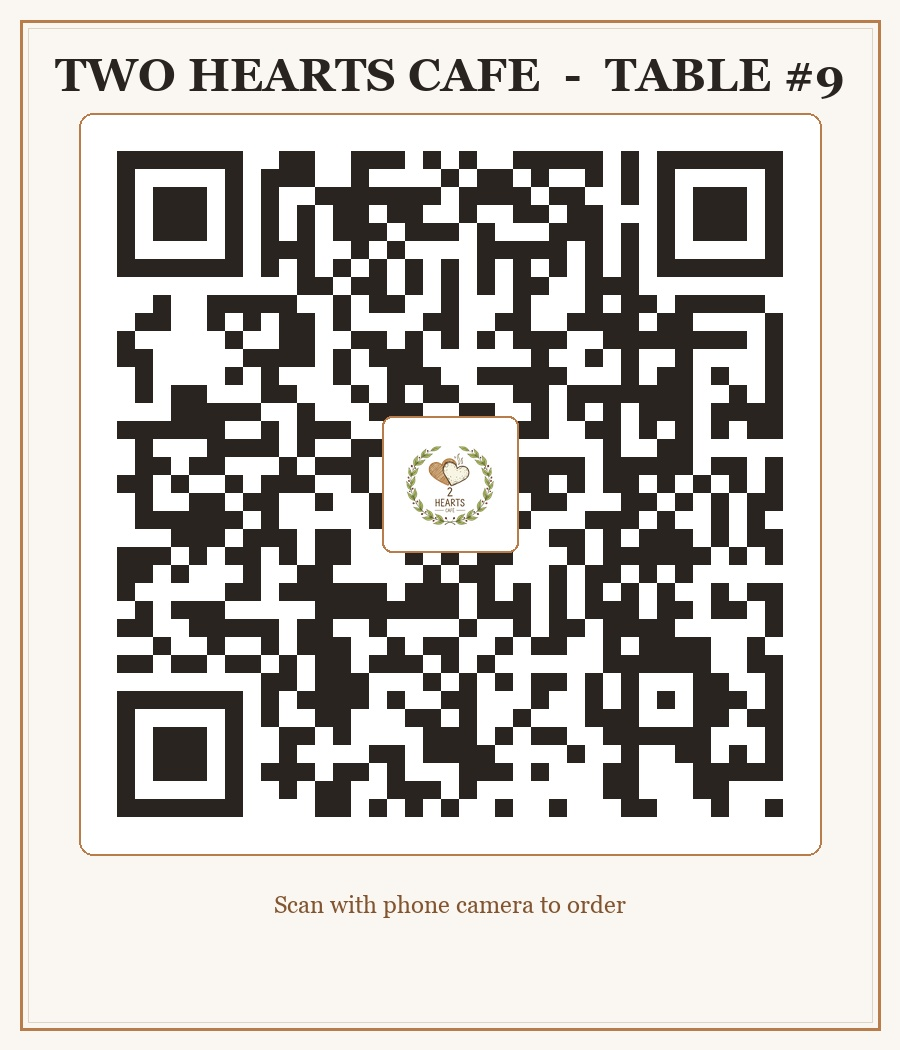
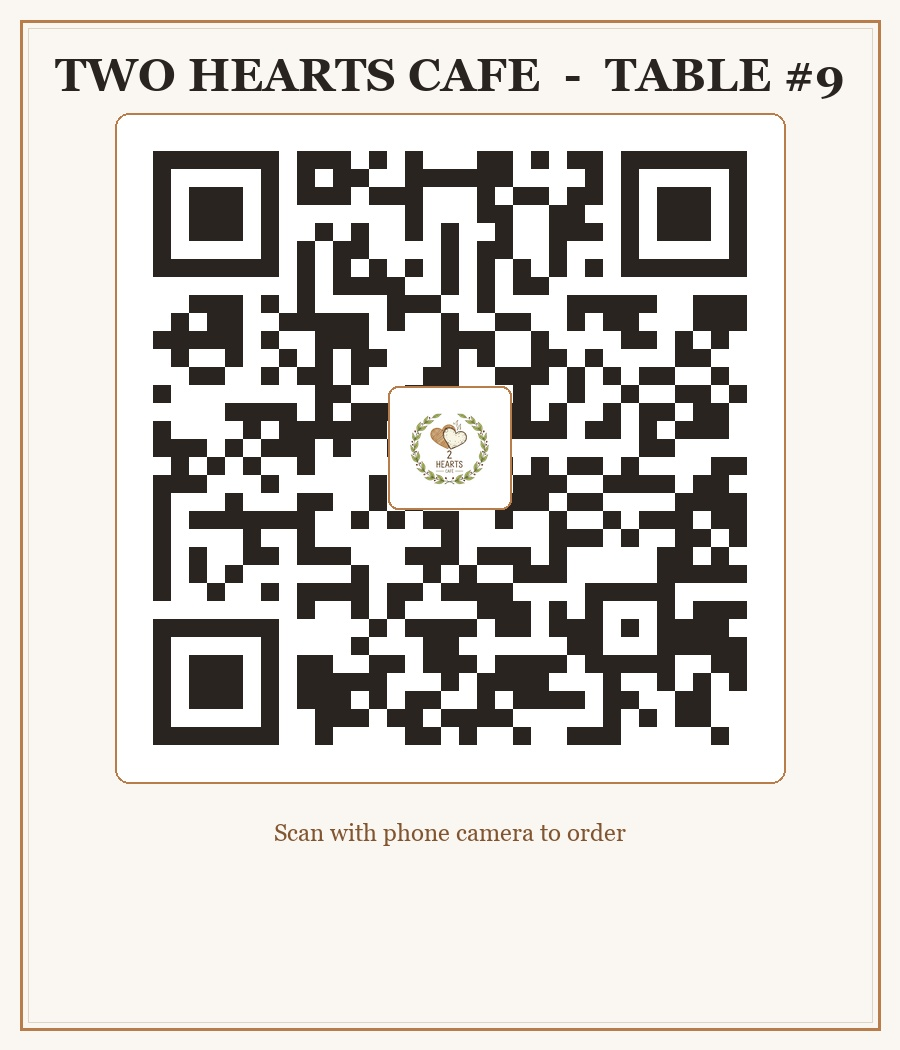
Update domain to twoheartscafe.in: QR codes, SEO canonical tags, sitemap, and robots.txt

Changed region(s): [[0.1244, 0.1219, 0.9022, 0.8229], [0.3111, 0.8533, 0.6844, 0.8838]]

diff --git a/index.html b/index.html
@@ -10,8 +10,27 @@
     <meta name="apple-mobile-web-app-status-bar-style" content="black-translucent" />
     <meta name="apple-mobile-web-app-title" content="Two Hearts" />
     <link rel="apple-touch-icon" href="/images/pwa/icon-192.png" />
-    <meta name="viewport" content="width=device-width, initial-scale=1.0, maximum-scale=1.0, user-scalable=no" />
+    <meta name="viewport" content="width=device-width, initial-scale=1.0, maximum-scale=1.0, user-scalable=no, viewport-fit=cover" />
     <title>Two Hearts Cafe - Menu & Ordering</title>
+    <meta name="description" content="Experience handcrafted coffee, artisanal pizzas, pastas, sizzling snacks, and instant table QR ordering at Two Hearts Cafe." />
+    <link rel="canonical" href="https://twoheartscafe.in/" />
+
+    <!-- Open Graph / Facebook -->
+    <meta property="og:type" content="website" />
+    <meta property="og:url" content="https://twoheartscafe.in/" />
+    <meta property="og:title" content="Two Hearts Cafe - Menu & Ordering" />
+    <meta property="og:description" content="Handcrafted coffee, artisanal pizzas, pastas, sizzling snacks, and instant table QR ordering at Two Hearts Cafe." />
+    <meta property="og:image" content="https://twoheartscafe.in/images/pwa/icon-512.png" />
+    <meta property="og:site_name" content="Two Hearts Cafe" />
+
+    <!-- Twitter -->
+    <meta name="twitter:card" content="summary_large_image" />
+    <meta name="twitter:domain" content="twoheartscafe.in" />
+    <meta name="twitter:url" content="https://twoheartscafe.in/" />
+    <meta name="twitter:title" content="Two Hearts Cafe - Menu & Ordering" />
+    <meta name="twitter:description" content="Handcrafted coffee, artisanal pizzas, pastas, sizzling snacks, and instant table QR ordering at Two Hearts Cafe." />
+    <meta name="twitter:image" content="https://twoheartscafe.in/images/pwa/icon-512.png" />
+
     <link rel="preconnect" href="https://fonts.googleapis.com">
     <link rel="preconnect" href="https://fonts.gstatic.com" crossorigin>
     <link href="https://fonts.googleapis.com/css2?family=Alex+Brush&family=Cormorant+Garamond:ital,wght@0,400;0,500;0,600;0,700;1,400;1,500;1,600&family=Great+Vibes&family=Playfair+Display:ital,wght@0,500;0,600;0,700;1,400;1,500&family=Plus+Jakarta+Sans:wght@400;500;600;700&display=swap" rel="stylesheet">

diff --git a/src/components/admin/TableQRGenerator.jsx b/src/components/admin/TableQRGenerator.jsx
@@ -10,7 +10,7 @@ export default function TableQRGenerator() {
   const [viewMode, setViewMode] = useState("single"); // 'single' | 'grid'
 
   const defaultDomain = window.location.origin.includes("localhost")
-    ? "https://two-hearts-cafe.vercel.app"
+    ? "https://twoheartscafe.in"
     : window.location.origin;
 
   const [domainUrl, setDomainUrl] = useState(defaultDomain);
@@ -20,7 +20,7 @@ export default function TableQRGenerator() {
   };
 
   const getTableUrl = (num) => {
-    const cleanBase = (domainUrl || "https://two-hearts-cafe.vercel.app").trim().replace(/\/+$/, "");
+    const cleanBase = (domainUrl || "https://twoheartscafe.in").trim().replace(/\/+$/, "");
     return `${cleanBase}/?table=${num}`;
   };
 
@@ -62,7 +62,7 @@ export default function TableQRGenerator() {
               type="text"
               value={domainUrl}
               onChange={(e) => setDomainUrl(e.target.value)}
-              placeholder="https://two-hearts-cafe.vercel.app"
+              placeholder="https://twoheartscafe.in"
               style={{
                 width: 230,
                 padding: "4px 8px",

diff --git a/scripts/generate_table_qrs.py b/scripts/generate_table_qrs.py
@@ -97,7 +97,7 @@ def generate_table_standee(table_num):
     current_y = by + bh + 35
 
     # 5. QR Code in White Box
-    url = f"https://two-hearts-cafe.vercel.app/?table={table_num}"
+    url = f"https://twoheartscafe.in/?table={table_num}"
     qr_img = create_qr_image(url, box_size=15, border=1)
     qr_w, qr_h = qr_img.size
 
@@ -164,7 +164,7 @@ def generate_pure_qr(table_num):
     current_y += 65
 
     # QR Code
-    url = f"https://two-hearts-cafe.vercel.app/?table={table_num}"
+    url = f"https://twoheartscafe.in/?table={table_num}"
     qr_img = create_qr_image(url, box_size=18, border=1)
     qr_w, qr_h = qr_img.size
 
